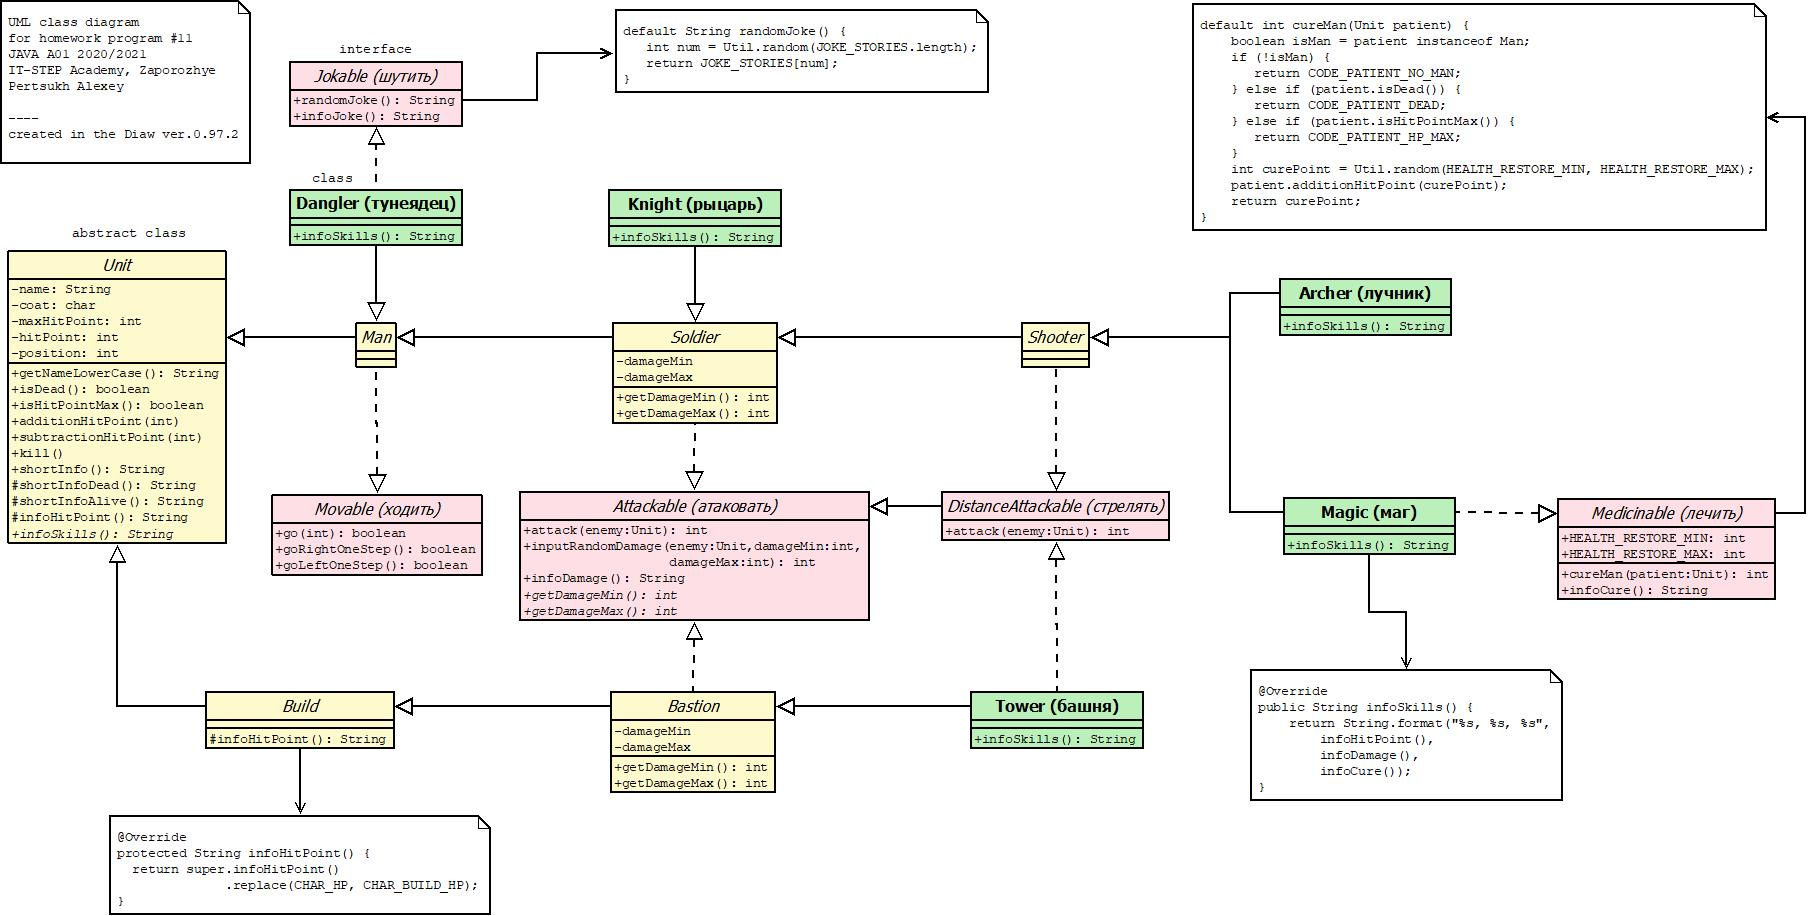
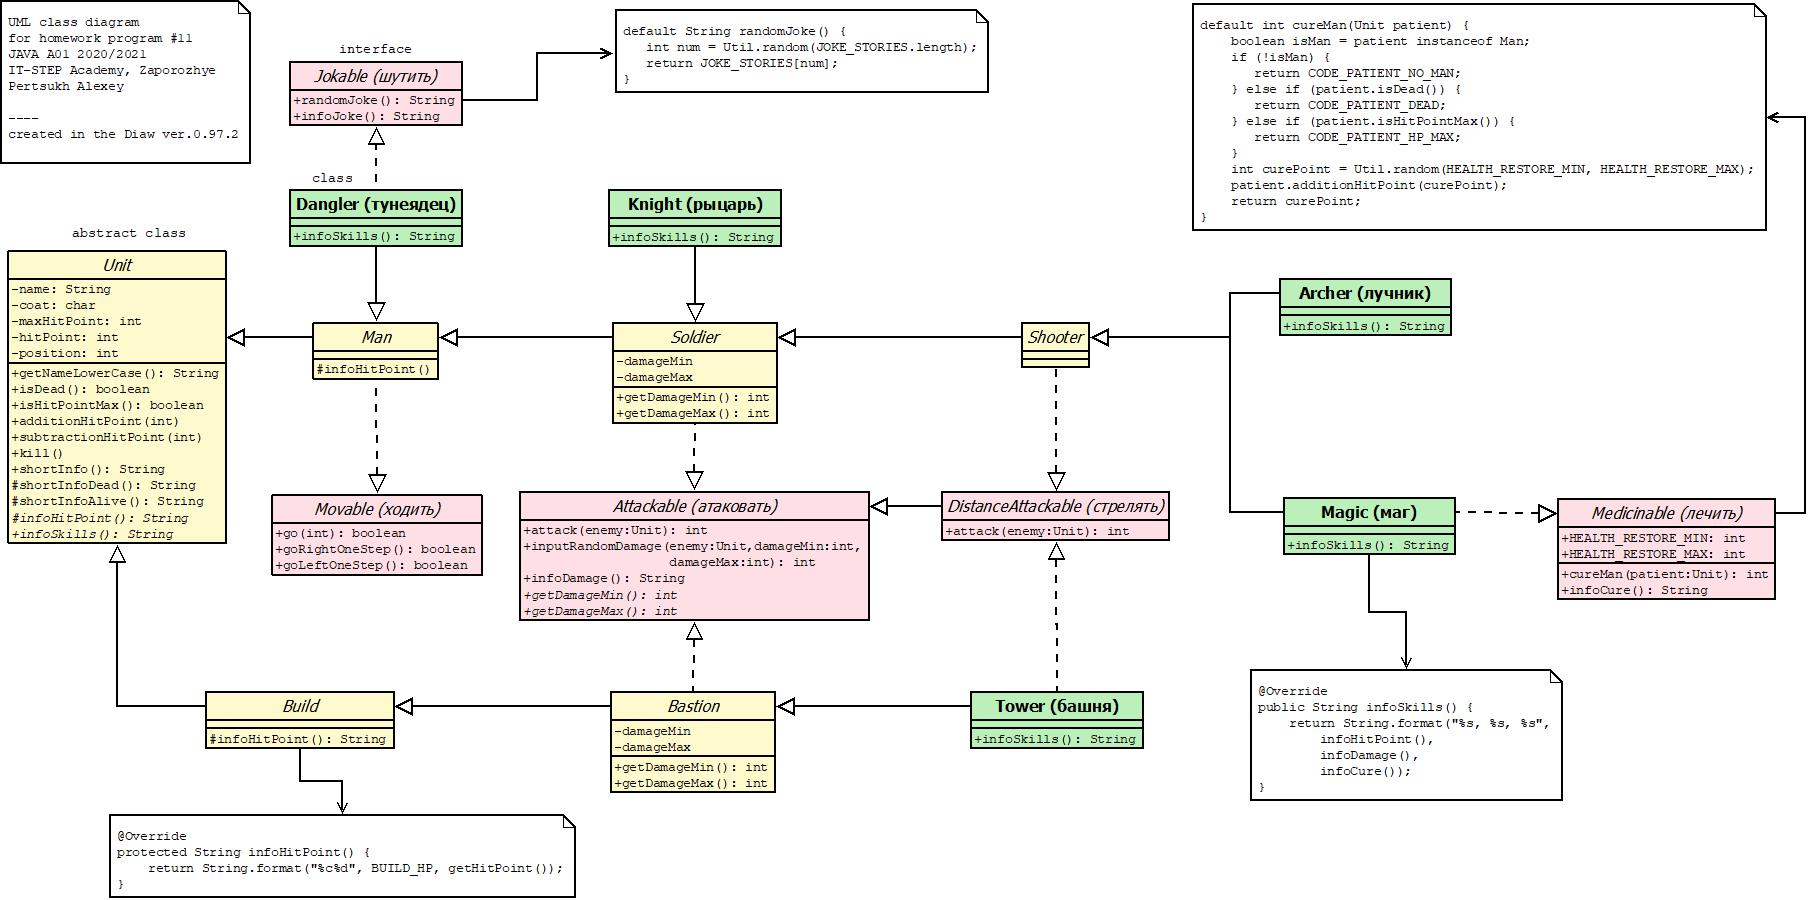
update class diagram

diff --git a/src/com/game/Info.java b/src/com/game/Info.java
@@ -4,7 +4,7 @@ import com.interfaces.Attackable;
 import com.interfaces.Jokable;
 import com.interfaces.Medicinable;
 import com.units.Build;
-import com.units.Unit;
+import com.units.Man;
 
 public class Info {
     private Info() {
@@ -60,8 +60,8 @@ public class Info {
         System.out.println("Чит-команда убить сразу врага под номером 4: " + Command.CMD_KILL + "4");
         System.out.println("---");
         System.out.println("ОБОЗНАЧЕНИЯ");
-        System.out.println(Unit.CHAR_HP + " здоровье");
-        System.out.println(Build.CHAR_BUILD_HP + " прочность строения");
+        System.out.println(Man.CHAR_HP + " здоровье");
+        System.out.println(Build.BUILD_HP + " прочность строения");
         System.out.println(Attackable.CHAR_ATTACK + " наносимый урон");
         System.out.println(Medicinable.CHAR_CURE + " уровень лечения");
         System.out.println(Jokable.LABEL_JOKE + " рассказывает шутки");

diff --git a/src/com/game/Command.java b/src/com/game/Command.java
@@ -1,4 +1,5 @@
 package com.game;
+
 //по учебной программе еще не знаем про enum, поэтому делаем класс
 public class Command {
 
@@ -63,7 +64,7 @@ public class Command {
     }
 
     private boolean isComplexCommand(String typeCmd) {
-        String[] args = getArgs();
+        String[] args = getArguments();
         if (args.length < 2) {
             return false;
         }
@@ -78,7 +79,7 @@ public class Command {
     "command"    -> CODE_ERR
      */
     public int getPositiveNumOrErrCode() {
-        String[] args = getArgs();
+        String[] args = getArguments();
 
         if (args.length > 1 && Util.isInteger(args[1])) {
             int num = Integer.parseInt(args[1]);
@@ -93,7 +94,7 @@ public class Command {
     "text"->"text"
     "text123"->"text","123"
      */
-    public String[] getArgs() {
+    public String[] getArguments() {
         char[] chars = text.toCharArray();
         for (int i = 0; i < chars.length; i++) {
             char c = chars[i];

diff --git a/src/com/units/Unit.java b/src/com/units/Unit.java
@@ -2,8 +2,7 @@ package com.units;
 
 //базовый юнит, прародитель для всех остальных персонажей
 public abstract class Unit {
-    public static final char CHAR_HP = '♥';
-    public static final String STR_DEAD_SYMBOL = "💀";
+    public static final String DEAD_SYMBOL = "💀";
 
     public final int maxHitPoint;
 
@@ -76,10 +75,6 @@ public abstract class Unit {
         return (hitPoint >= maxHitPoint);
     }
 
-    protected String infoHitPoint() {
-        return String.format("%c%d", CHAR_HP, hitPoint);
-    }
-
     public String shortInfo() {
         if(isDead()) {
             return shortInfoDead();
@@ -93,10 +88,12 @@ public abstract class Unit {
     }
 
     protected String shortInfoDead() {
-        return String.format("%s %s", STR_DEAD_SYMBOL, name);
+        return String.format("%s %s", DEAD_SYMBOL, name);
     }
 
     //абстрактные методы
     abstract public String infoSkills();
+
+    abstract protected String infoHitPoint();
 
 }

diff --git a/src/com/units/Build.java b/src/com/units/Build.java
@@ -1,16 +1,15 @@
 package com.units;
 
 public abstract class Build extends Unit {
-    public static final char CHAR_BUILD_HP = '⚒';
+    public static final char BUILD_HP = '⚒';
 
     public Build(String name, int hintPoint, int position, char coat) {
         super(name, hintPoint, position, coat);
     }
 
-
     @Override
     protected String infoHitPoint() {
-        return super.infoHitPoint().replace(CHAR_HP, CHAR_BUILD_HP);  //заменяем сердце на молоточки
+        return String.format("%c%d", BUILD_HP, getHitPoint());
     }
 
 }

diff --git a/src/com/units/Man.java b/src/com/units/Man.java
@@ -3,9 +3,14 @@ package com.units;
 import com.interfaces.Movable;
 
 public abstract class Man extends Unit implements Movable {
+    public static final char CHAR_HP = '♥';
 
     public Man(String name, int hintPoint, int position, char coat) {
         super(name, hintPoint, position, coat);
+    }
+
+    protected String infoHitPoint() {
+        return String.format("%c%d", CHAR_HP, getHitPoint());
     }
 
 }
